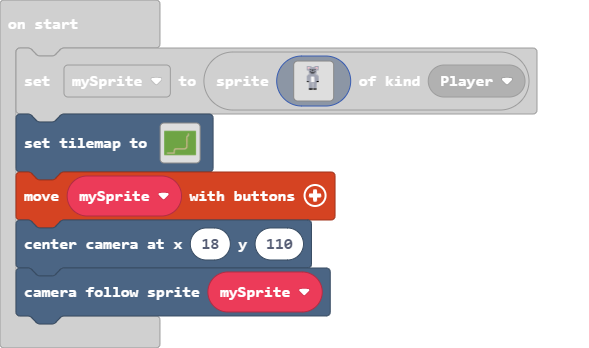
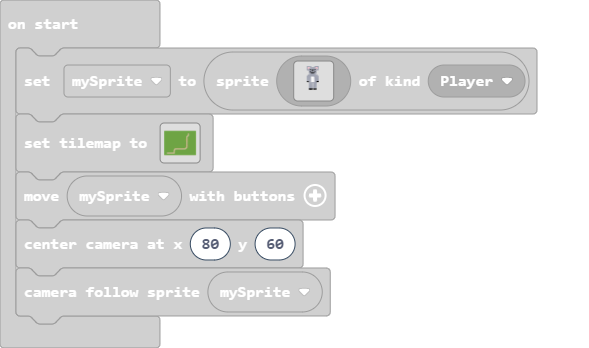
Update main.blocks, main.ts

Changed region(s): [[0.0, 0.3161, 0.5806, 0.9483], [0.4584, 0.1437, 0.6112, 0.3161]]

diff --git a/main.ts b/main.ts
@@ -1,5 +1,5 @@
 let mySprite = sprites.create(assets.image`koala`, SpriteKind.Player)
 tiles.setTilemap(tilemap`mainTileMap`)
 controller.moveSprite(mySprite)
-scene.centerCameraAt(18, 110)
+scene.centerCameraAt(80, 60)
 scene.cameraFollowSprite(mySprite)
